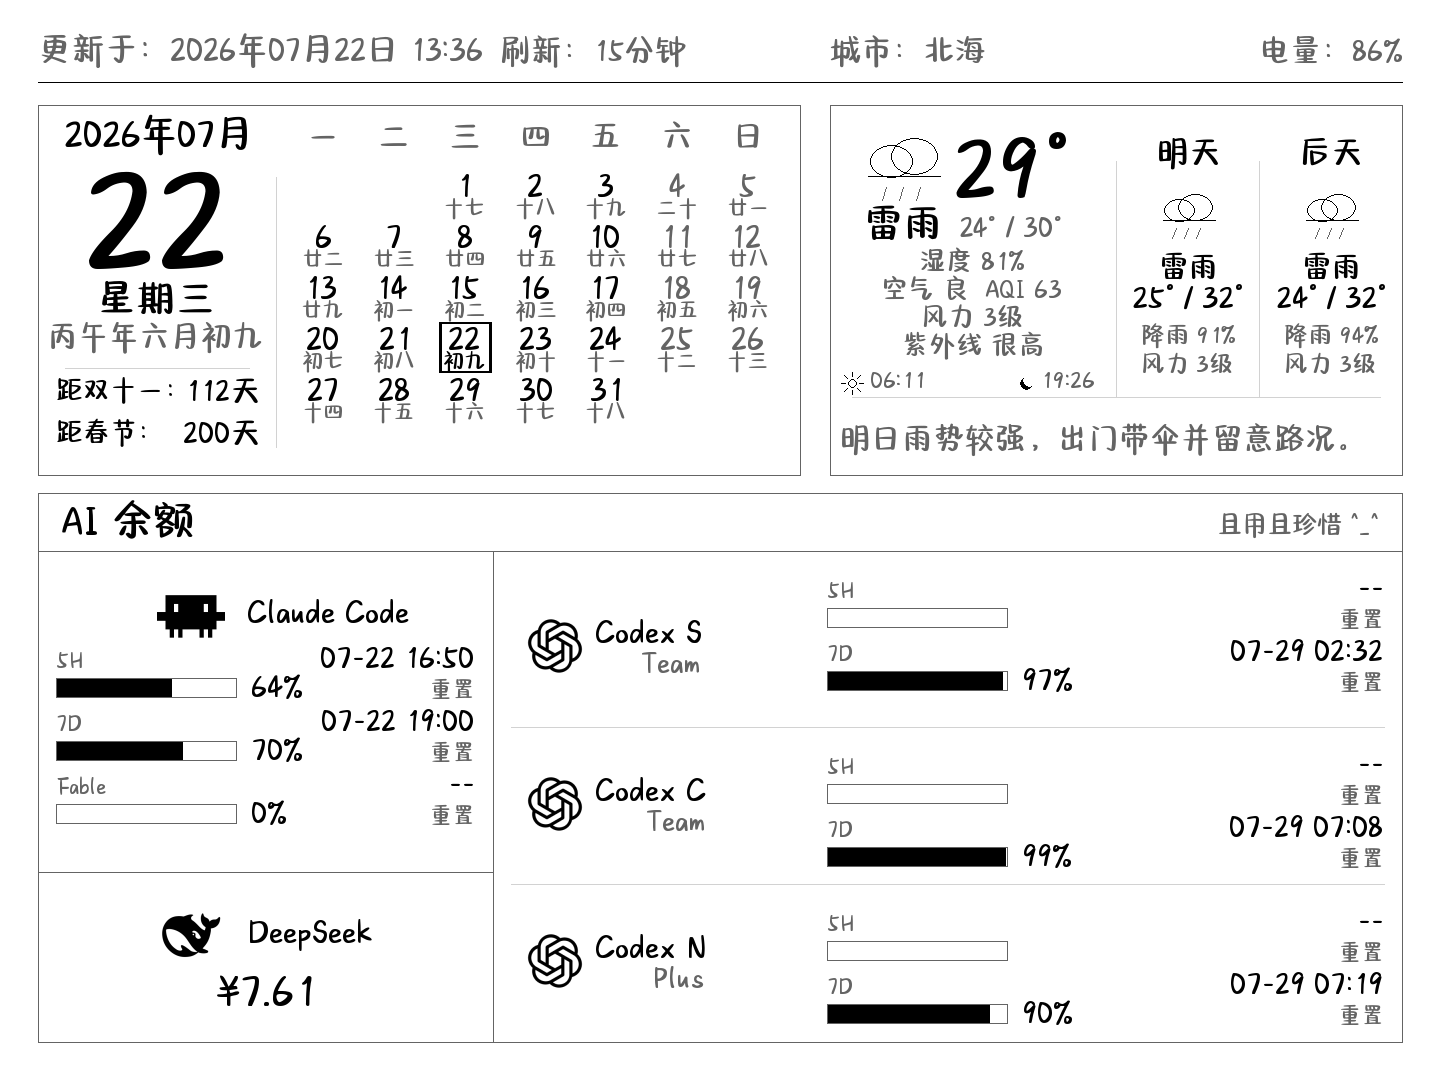
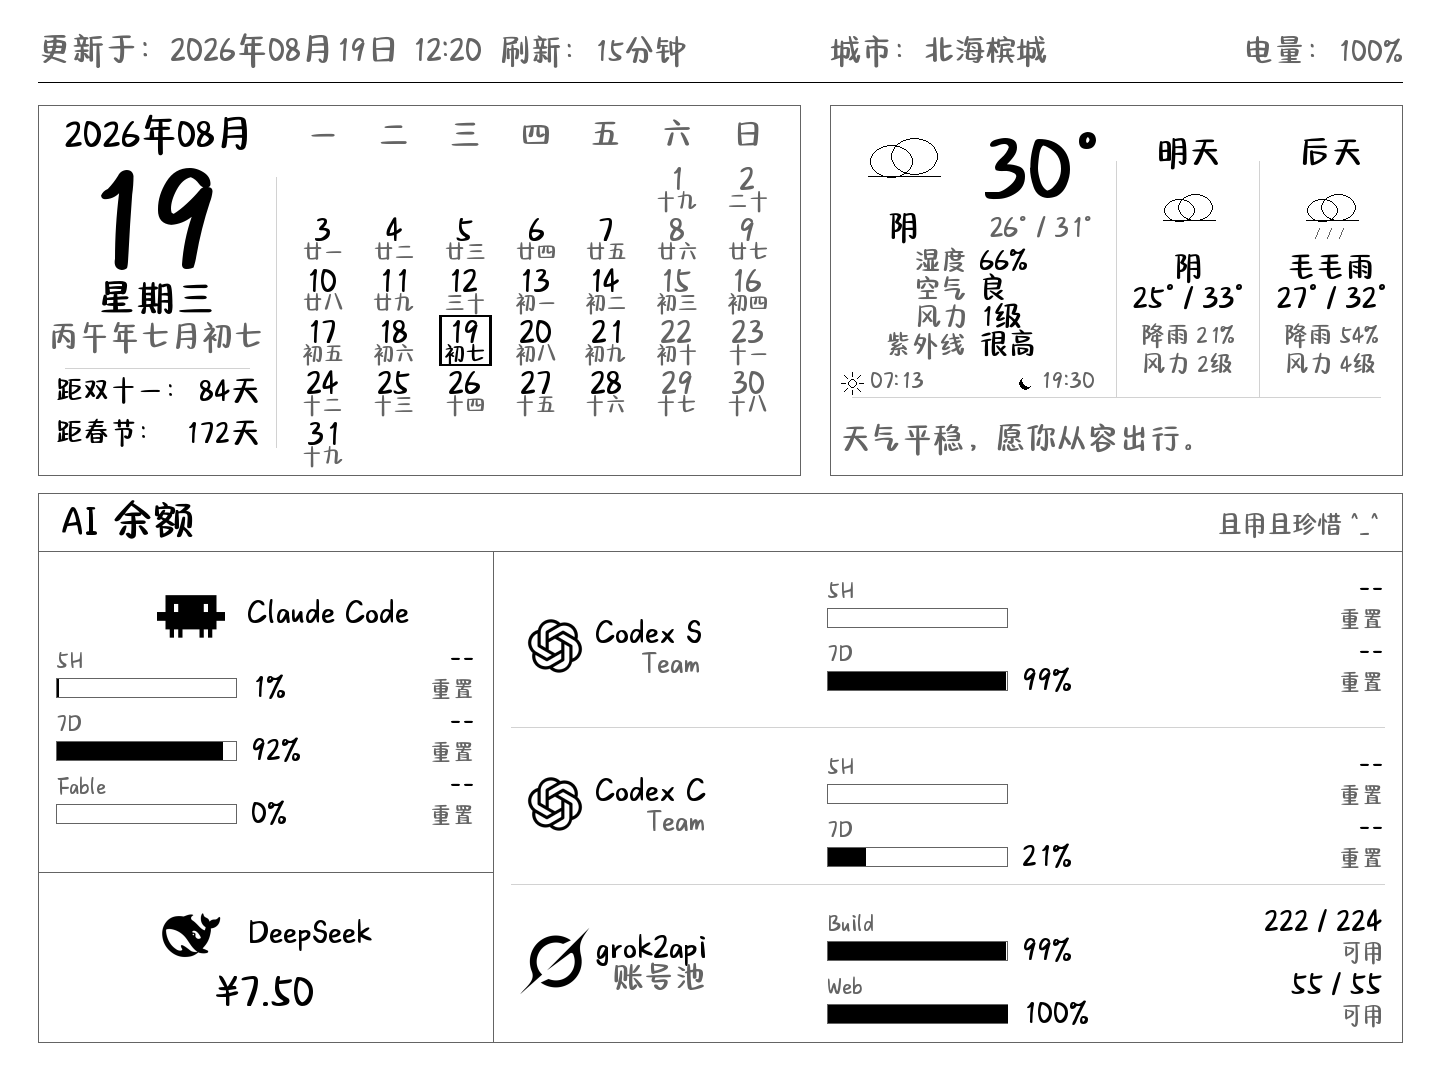
Show grok2api quota across device layouts

diff --git a/scriptable/dashboard-widget.js b/scriptable/dashboard-widget.js
@@ -210,6 +210,12 @@ function accountText(accounts) {
       parts.push("DeepSeek " + value(account.summary, "--").replace(/^Balance\s*/i, ""));
       continue;
     }
+    if (account.source === "grok2api") {
+      const build = account.five_hour || {};
+      const web = account.seven_day || {};
+      parts.push("grok2api Build " + value(build.used, "--") + "% · Web " + value(web.used, "--") + "%");
+      continue;
+    }
     const sevenDay = account.seven_day || {};
     if (sevenDay.used !== null && sevenDay.used !== undefined) parts.push(account.name + " " + sevenDay.used + "%");
   }

diff --git a/php/index.php b/php/index.php
@@ -354,13 +354,15 @@ function weather_advice(array $weather, array $forecast): string {
 function quota_accounts(array $state): array {
     $quota = is_array($state['quota'] ?? null) ? $state['quota'] : [];
     $sources = is_array($quota['sources'] ?? null) ? $quota['sources'] : [];
-    $ordered = array_values(array_unique(array_merge(['claude', 'deepseek', 'codex'], array_keys($sources))));
+    $ordered = array_values(array_unique(array_merge(['claude', 'deepseek', 'codex', 'grok2api'], array_keys($sources))));
     $accounts = [];
+    $codexCount = 0;
     foreach ($ordered as $source) {
         $items = $sources[$source]['accounts'] ?? [];
         if (!is_array($items)) continue;
         foreach ($items as $item) {
             if (is_array($item) && is_string($item['name'] ?? null) && is_string($item['summary'] ?? null)) {
+                if ($source === 'codex' && $codexCount++ >= 2) continue;
                 $item['source'] = $source;
                 $accounts[] = $item;
             }
@@ -381,6 +383,26 @@ function quota_source_account(array $state, string $source): ?array {
         }
     }
     return null;
+}
+
+function grok_quota_account(array $state): array {
+    return quota_source_account($state, 'grok2api') ?? [
+        'name' => 'grok2api', 'summary' => 'Build -- · Web --', 'source' => 'grok2api', 'plan' => '账号池',
+        'five_hour' => ['used' => 0], 'seven_day' => ['used' => 0],
+    ];
+}
+
+function codex_grok_quota_rows(array $state): array {
+    $rows = [];
+    foreach (quota_accounts($state) as $account) {
+        if (($account['source'] ?? '') === 'codex') $rows[] = $account;
+    }
+    $rows[] = grok_quota_account($state);
+    return $rows;
+}
+
+function quota_count_label(?array $metric): string {
+    return isset($metric['available'], $metric['total']) ? $metric['available'] . ' / ' . $metric['total'] : '-- / --';
 }
 
 function draw_text($image, int $size, int $x, int $baseline, string $value, int $colour, string $align = 'left'): void {
@@ -567,11 +589,11 @@ function iphone_weather_emoji($code): string {
     return '☀';
 }
 
-function iphone_metric_html(string $label, ?array $metric, int $maxAheadSeconds): string {
+function iphone_metric_html(string $label, ?array $metric, int $maxAheadSeconds, ?string $detail = null): string {
     $used = is_array($metric) && is_numeric($metric['used'] ?? null) ? max(0, min(100, (int)$metric['used'])) : null;
     $width = $used ?? 0;
     $percentage = $used === null ? '--' : $used . '%';
-    $reset = reset_time_label(is_array($metric) ? ($metric['reset_at'] ?? null) : null, $maxAheadSeconds);
+    $reset = $detail ?? reset_time_label(is_array($metric) ? ($metric['reset_at'] ?? null) : null, $maxAheadSeconds);
     return '<div class="metric-row">'
         . '<span class="metric-label">' . html_escape($label) . '</span>'
         . '<span class="metric-track"><i style="width:' . $width . '%"></i></span>'
@@ -966,6 +988,14 @@ function render_iphone_viewer(array $device, string $id, string $token, array $c
                 . '</article>';
         }
     }
+    $grokAccount = grok_quota_account($state);
+    $grokBuild = account_metric($grokAccount, 'five_hour');
+    $grokWeb = account_metric($grokAccount, 'seven_day');
+    $grokHtml = '<article class="ai-account grok">'
+        . '<div class="account-heading"><img src="/assets/grok.png" alt=""><div><b>grok2api</b><span>账号池</span></div></div>'
+        . iphone_metric_html('Build', $grokBuild, 0, quota_count_label($grokBuild))
+        . iphone_metric_html('Web', $grokWeb, 0, quota_count_label($grokWeb))
+        . '</article>';
     if ($claudeHtml === '') $claudeHtml = '<article class="ai-account claude empty"><b>Claude Code</b><span>暂未接入</span></article>';
     if ($deepseekHtml === '') $deepseekHtml = '<article class="ai-account deepseek empty"><b>DeepSeek</b><span>暂未接入</span></article>';
     if ($codexHtml === '') $codexHtml = '<article class="ai-account codex empty"><b>Codex</b><span>暂未接入</span></article>';
@@ -986,7 +1016,7 @@ CSS;
     echo '<section class="hero"><span class="city">📍 ' . html_escape($city) . '</span><div class="now"><span class="emoji">' . iphone_weather_emoji($weather['code'] ?? null) . '</span><div><strong>' . $temperature . '<small>°C</small></strong><p>' . html_escape(weather_label($weather['code'] ?? null)) . '</p></div></div><div class="range">今日 ' . $low . '° / ' . $high . '°</div><div class="stats"><span>湿度<b>' . html_escape($weather['humidity'] ?? '--') . '%</b></span><span>风力<b>' . html_escape($wind === null ? '--' : $wind) . '级</b></span><span>空气质量<b>' . html_escape(air_quality_label($aqi)) . ' ' . html_escape($aqi ?? '--') . '</b></span><span>紫外线<b>' . html_escape($uvLevel) . '</b></span></div></section>';
     echo '<section class="section"><div class="section-head"><h2>未来天气</h2><span>' . html_escape($city) . '</span></div><div class="forecasts">' . $forecastHtml . '</div><div class="advice"><b>☂</b><span>' . html_escape(weather_advice($weather, $forecast)) . '</span></div></section>';
     echo $serverHtml;
-    echo '<section class="section ai"><div class="section-head ai-title"><h2>AI 余额</h2><span>且用且珍惜 ^_^</span></div>' . $claudeHtml . $deepseekHtml . $codexHtml . '</section>';
+    echo '<section class="section ai"><div class="section-head ai-title"><h2>AI 余额</h2><span>且用且珍惜 ^_^</span></div>' . $claudeHtml . $deepseekHtml . $codexHtml . $grokHtml . '</section>';
     echo '<div class="footer">更新于 ' . html_escape(date('H:i', $now)) . ' · 设备电量 ' . html_escape($batteryText) . '</div></main><script>setInterval(function(){location.reload();},' . ($refreshMinutes * 60000) . ');document.addEventListener("visibilitychange",function(){if(!document.hidden)location.reload();});</script></body></html>';
     exit;
 }
@@ -1106,9 +1136,9 @@ function render_landscape_frame(array $device, array $state, array $config, int 
     imageline($image, $aiRect[0], $aiRect[1] + $p(58), $aiRect[2], $aiRect[1] + $p(58), $grey);
     $divider = $aiRect[0] + $p(455);
     imageline($image, $divider, $aiRect[1] + $p(58), $divider, $aiRect[3], $grey);
-    $leftAccounts = []; $codexAccounts = [];
+    $leftAccounts = [];
     foreach (quota_accounts($state) as $account) {
-        if (($account['source'] ?? '') === 'codex') $codexAccounts[] = $account; else $leftAccounts[] = $account;
+        if (in_array(($account['source'] ?? ''), ['claude', 'deepseek'], true)) $leftAccounts[] = $account;
     }
     $leftAccountCenter = (int)(($aiRect[0] + $divider) / 2);
     $aiContentTop = $aiRect[1] + $p(76); $aiContentBottom = $aiRect[3];
@@ -1145,19 +1175,20 @@ function render_landscape_frame(array $device, array $state, array $config, int 
             draw_text($image, $p(14), $divider - $p(20), $metricBaseline + $p(29), '重置', $grey, 'right');
         }
     }
-    $codexRowHeight = ($aiContentBottom - $aiContentTop) / max(1, count($codexAccounts));
+    $quotaRows = codex_grok_quota_rows($state);
+    $codexRowHeight = ($aiContentBottom - $aiContentTop) / max(1, count($quotaRows));
     $codexShift = $p(34);
-    foreach ($codexAccounts as $index => $account) {
-        $rowCenter = (int)round($aiContentTop + ($index + .5) * $codexRowHeight); $baseline = $rowCenter - $p(5); $source = 'codex';
-        if ($index < count($codexAccounts) - 1) {
+    foreach ($quotaRows as $index => $account) {
+        $rowCenter = (int)round($aiContentTop + ($index + .5) * $codexRowHeight); $baseline = $rowCenter - $p(5);
+        $source = (string)($account['source'] ?? 'codex'); $isGrok = $source === 'grok2api';
+        if ($index < count($quotaRows) - 1) {
             $rowBottom = (int)round($aiContentTop + ($index + 1) * $codexRowHeight);
             imageline($image, $divider + $p(18), $rowBottom, $aiRect[2] - $p(18), $rowBottom, $light);
         }
-        draw_service_icon($image, $source, $divider + $p(28) + $codexShift, $baseline + $p(3), $black, $white);
-        $codexName = (string)$account['name'];
-        if ($codexName === 'Codex 1') $codexName = 'Codex S';
-        elseif ($codexName === 'Codex 2') $codexName = 'Codex C';
-        elseif ($codexName === 'Codex 3') $codexName = 'Codex N';
+        draw_service_icon($image, $isGrok ? 'grok2api' : 'codex', $divider + $p(28) + $codexShift, $baseline + $p(3), $black, $white, $isGrok ? $p(76) - 76 : 0);
+        $codexName = $isGrok ? 'grok2api' : (string)$account['name'];
+        if (!$isGrok && $codexName === 'Codex 1') $codexName = 'Codex S';
+        elseif (!$isGrok && $codexName === 'Codex 2') $codexName = 'Codex C';
         $codexNameX = $divider + $p(68) + $codexShift;
         draw_text($image, $p(21), $codexNameX, $baseline, $codexName, $black);
         $codexNameFontSize = max(1, (int)round($p(21) * (float)($GLOBALS['dashboard_font_scale'] ?? 1)));
@@ -1167,13 +1198,21 @@ function render_landscape_frame(array $device, array $state, array $config, int 
         $fiveHourMetric = account_metric($account, 'five_hour') ?? [];
         $sevenDayMetric = account_metric($account, 'seven_day') ?? [];
         $codexProgressX = $divider + $p(300) + $codexShift;
-        foreach ([['5H', null, $fiveHourMetric, 18300], ['7D', $sevenDayMetric['used'] ?? null, $sevenDayMetric, 605100]] as $metricIndex => [$label, $used, $metric, $maxAheadSeconds]) {
+        $metricRows = $isGrok
+            ? [['Build', $fiveHourMetric['used'] ?? null, $fiveHourMetric, 0], ['Web', $sevenDayMetric['used'] ?? null, $sevenDayMetric, 0]]
+            : [['5H', null, $fiveHourMetric, 18300], ['7D', $sevenDayMetric['used'] ?? null, $sevenDayMetric, 605100]];
+        foreach ($metricRows as $metricIndex => [$label, $used, $metric, $maxAheadSeconds]) {
             $metricBaseline = $rowCenter + $p($metricIndex === 0 ? -50 : 13) + ($index === 0 ? 0 : $p(18));
             draw_text($image, $p(14), $codexProgressX, $metricBaseline, $label, $grey);
             draw_progress($image, $codexProgressX, $metricBaseline + $p(10), $p(180), $p(19), $used, $black, $grey, $white);
-            if ($metricIndex === 1) draw_text($image, $p(19), $codexProgressX + $p(195), $metricBaseline + $p(29), $used === null ? '--' : $used . '%', $black);
-            draw_text($image, $p(19), $aiRect[2] - $p(20), $metricBaseline, reset_time_label($metric['reset_at'] ?? null, $maxAheadSeconds), $black, 'right');
-            draw_text($image, $p(14), $aiRect[2] - $p(20), $metricBaseline + $p(29), '重置', $grey, 'right');
+            if ($isGrok || $metricIndex === 1) draw_text($image, $p(19), $codexProgressX + $p(195), $metricBaseline + $p(29), $used === null ? '--' : $used . '%', $black);
+            if ($isGrok) {
+                draw_text($image, $p(19), $aiRect[2] - $p(20), $metricBaseline, quota_count_label($metric), $black, 'right');
+                draw_text($image, $p(14), $aiRect[2] - $p(20), $metricBaseline + $p(29), '可用', $grey, 'right');
+            } else {
+                draw_text($image, $p(19), $aiRect[2] - $p(20), $metricBaseline, reset_time_label($metric['reset_at'] ?? null, $maxAheadSeconds), $black, 'right');
+                draw_text($image, $p(14), $aiRect[2] - $p(20), $metricBaseline + $p(29), '重置', $grey, 'right');
+            }
         }
     }
     header('Content-Type: image/png'); header('Cache-Control: no-store, max-age=0');
@@ -1289,16 +1328,11 @@ function render_phone_frame(array $device, array $state, array $config, int $wid
         draw_text($image, $f(10), $cellCenter, $forecastTop + $p(185), '风力 ' . ($forecastWindLevel ?? '--') . '级', $grey, 'center');
     }
 
-    $claudeAccount = null; $deepseekAccount = null; $codexAccounts = [];
+    $claudeAccount = null; $deepseekAccount = null;
     foreach (quota_accounts($state) as $account) {
-        if (($account['source'] ?? '') === 'codex') $codexAccounts[] = $account;
-        elseif (($account['source'] ?? '') === 'deepseek') $deepseekAccount = $account;
-        else $claudeAccount = $account;
+        if (($account['source'] ?? '') === 'deepseek') $deepseekAccount = $account;
+        elseif (($account['source'] ?? '') === 'claude') $claudeAccount = $account;
     }
-    $grokAccount = quota_source_account($state, 'grok2api') ?? [
-        'name' => 'grok2api', 'summary' => 'Build -- · Web --', 'source' => 'grok2api', 'plan' => '账号池',
-        'five_hour' => ['used' => 0], 'seven_day' => ['used' => 0],
-    ];
     $serviceX = $serviceRect[0]; $serviceRight = $serviceRect[2]; $serviceCenter = (int)(($serviceX + $serviceRight) / 2); $claudeBaseline = $weatherY + $p(56);
     draw_service_icon($image, 'claude', $serviceCenter - $p(78), $claudeBaseline - $p(7), $black, $white);
     draw_text($image, $f(17), $serviceCenter - $p(25), $claudeBaseline, 'Claude Code', $black);
@@ -1320,7 +1354,7 @@ function render_phone_frame(array $device, array $state, array $config, int $wid
 
     draw_text($image, $f(14), $margin + $p(16), $p(884), weather_advice($weather, $forecast), $grey);
 
-    $quotaRows = array_merge(array_slice($codexAccounts, 0, 2), [$grokAccount]);
+    $quotaRows = codex_grok_quota_rows($state);
     $codexX = $codexRect[0]; $codexY = $codexRect[1]; $codexRight = $codexRect[2]; $codexBottom = $codexRect[3]; $codexRowHeight = ($codexBottom - $codexY) / max(1, count($quotaRows));
     foreach ($quotaRows as $index => $account) {
         $rowTop = (int)round($codexY + $index * $codexRowHeight); $rowCenter = (int)round($rowTop + $codexRowHeight / 2);
@@ -1346,8 +1380,7 @@ function render_phone_frame(array $device, array $state, array $config, int $wid
             draw_progress($image, $progressX, $metricBaseline + $p(10), $p(195), $p(16), $used, $black, $grey, $white);
             if ($isGrok || $metricIndex === 1) draw_text($image, $f(15), $progressX + $p(207), $metricBaseline + $p(30), $used === null ? '--' : $used . '%', $black);
             if ($isGrok) {
-                $count = isset($metric['available'], $metric['total']) ? $metric['available'] . ' / ' . $metric['total'] : '-- / --';
-                draw_text($image, $f(15), $codexRight - $p(12), $metricBaseline, $count, $black, 'right');
+                draw_text($image, $f(15), $codexRight - $p(12), $metricBaseline, quota_count_label($metric), $black, 'right');
                 draw_text($image, $f(11), $codexRight - $p(12), $metricBaseline + $p(30), '可用', $grey, 'right');
             } else {
                 draw_text($image, $f(15), $codexRight - $p(12), $metricBaseline, reset_time_label($metric['reset_at'] ?? null, $maxAheadSeconds), $black, 'right');
@@ -1472,11 +1505,10 @@ function render_portrait_frame(array $device, array $state, array $config, int $
     }
     draw_text($image, $p(15), $weatherX + $p(25), $weatherY + $p(420), weather_advice($weather, $forecast), $grey);
 
-    $claudeAccount = null; $deepseekAccount = null; $codexAccounts = [];
+    $claudeAccount = null; $deepseekAccount = null;
     foreach (quota_accounts($state) as $account) {
-        if (($account['source'] ?? '') === 'codex') $codexAccounts[] = $account;
-        elseif (($account['source'] ?? '') === 'deepseek') $deepseekAccount = $account;
-        else $claudeAccount = $account;
+        if (($account['source'] ?? '') === 'deepseek') $deepseekAccount = $account;
+        elseif (($account['source'] ?? '') === 'claude') $claudeAccount = $account;
     }
     $serviceX = $serviceRect[0]; $serviceRight = $serviceRect[2]; $serviceCenter = (int)(($serviceX + $serviceRight) / 2);
     $metricGroupGap = 65;
@@ -1510,17 +1542,18 @@ function render_portrait_frame(array $device, array $state, array $config, int $
     $balance = preg_replace('/^Balance\\s*/i', '', (string)($deepseekAccount['summary'] ?? '¥0.00'));
     draw_text($image, $p(23), $serviceCenter, $weatherY + $p(415), $balance, $black, 'center');
 
+    $quotaRows = codex_grok_quota_rows($state);
     $codexX = $codexRect[0]; $codexY = $codexRect[1]; $codexRight = $codexRect[2]; $codexBottom = $codexRect[3];
-    $codexRowHeight = ($codexBottom - $codexY) / max(1, count($codexAccounts));
-    foreach ($codexAccounts as $index => $account) {
+    $codexRowHeight = ($codexBottom - $codexY) / max(1, count($quotaRows));
+    foreach ($quotaRows as $index => $account) {
         $rowTop = (int)round($codexY + $index * $codexRowHeight); $rowCenter = (int)round($rowTop + $codexRowHeight / 2);
-        if ($index < count($codexAccounts) - 1) imageline($image, $codexX + $p(18), (int)round($rowTop + $codexRowHeight), $codexRight - $p(18), (int)round($rowTop + $codexRowHeight), $light);
+        if ($index < count($quotaRows) - 1) imageline($image, $codexX + $p(18), (int)round($rowTop + $codexRowHeight), $codexRight - $p(18), (int)round($rowTop + $codexRowHeight), $light);
         $identityBaseline = $rowCenter - $p(8);
-        draw_service_icon($image, 'codex', $codexX + $p(74), $identityBaseline + $p(3), $black, $white, $p(3));
-        $displayName = (string)$account['name'];
-        if ($displayName === 'Codex 1') $displayName = 'Codex S';
-        elseif ($displayName === 'Codex 2') $displayName = 'Codex C';
-        elseif ($displayName === 'Codex 3') $displayName = 'Codex N';
+        $source = (string)($account['source'] ?? 'codex'); $isGrok = $source === 'grok2api';
+        draw_service_icon($image, $isGrok ? 'grok2api' : 'codex', $codexX + $p(74), $identityBaseline + $p(3), $black, $white, $isGrok ? $p(79) - 76 : $p(3));
+        $displayName = $isGrok ? 'grok2api' : (string)$account['name'];
+        if (!$isGrok && $displayName === 'Codex 1') $displayName = 'Codex S';
+        elseif (!$isGrok && $displayName === 'Codex 2') $displayName = 'Codex C';
         $nameX = $codexX + $p(126);
         draw_text($image, $p(20), $nameX, $identityBaseline, $displayName, $black);
         $nameBox = imagettfbbox((int)round($p(20 * $fontScale)), 0, FONT_FILE, $displayName);
@@ -1528,13 +1561,21 @@ function render_portrait_frame(array $device, array $state, array $config, int $
         draw_text($image, $p(17), $nameRight, $identityBaseline + $p(28), (string)($account['plan'] ?? '—'), $grey, 'right');
         $fiveHourMetric = account_metric($account, 'five_hour') ?? []; $sevenDayMetric = account_metric($account, 'seven_day') ?? [];
         $progressX = $codexX + $p(365);
-        foreach ([['5H', null, $fiveHourMetric, 18300], ['7D', $sevenDayMetric['used'] ?? null, $sevenDayMetric, 605100]] as $metricIndex => [$label, $used, $metric, $maxAheadSeconds]) {
+        $metricRows = $isGrok
+            ? [['Build', $fiveHourMetric['used'] ?? null, $fiveHourMetric, 0], ['Web', $sevenDayMetric['used'] ?? null, $sevenDayMetric, 0]]
+            : [['5H', null, $fiveHourMetric, 18300], ['7D', $sevenDayMetric['used'] ?? null, $sevenDayMetric, 605100]];
+        foreach ($metricRows as $metricIndex => [$label, $used, $metric, $maxAheadSeconds]) {
             $metricBaseline = $rowCenter + $p(-41 + $metricIndex * $metricGroupGap);
             draw_text($image, $p(13), $progressX, $metricBaseline, $label, $grey);
             draw_progress($image, $progressX, $metricBaseline + $p(10), $p(260), $p(18), $used, $black, $grey, $white);
-            if ($metricIndex === 1) draw_text($image, $p(18), $progressX + $p(274), $metricBaseline + $p(28), $used === null ? '--' : $used . '%', $black);
-            draw_text($image, $p(18), $codexRight - $p(18), $metricBaseline, reset_time_label($metric['reset_at'] ?? null, $maxAheadSeconds), $black, 'right');
-            draw_text($image, $p(13), $codexRight - $p(18), $metricBaseline + $p(28), '重置', $grey, 'right');
+            if ($isGrok || $metricIndex === 1) draw_text($image, $p(18), $progressX + $p(274), $metricBaseline + $p(28), $used === null ? '--' : $used . '%', $black);
+            if ($isGrok) {
+                draw_text($image, $p(18), $codexRight - $p(18), $metricBaseline, quota_count_label($metric), $black, 'right');
+                draw_text($image, $p(13), $codexRight - $p(18), $metricBaseline + $p(28), '可用', $grey, 'right');
+            } else {
+                draw_text($image, $p(18), $codexRight - $p(18), $metricBaseline, reset_time_label($metric['reset_at'] ?? null, $maxAheadSeconds), $black, 'right');
+                draw_text($image, $p(13), $codexRight - $p(18), $metricBaseline + $p(28), '重置', $grey, 'right');
+            }
         }
     }
     render_grayscale_png($image);

diff --git a/tests/test_app.py b/tests/test_app.py
@@ -6,7 +6,7 @@ from zoneinfo import ZoneInfo
 
 from PIL import Image
 
-from server.app import Config, Device, create_app, render_dashboard
+from server.app import Config, Device, _quota_accounts, create_app, render_dashboard
 
 
 def config(tmp_path: Path) -> Config:
@@ -52,6 +52,21 @@ def test_frame_renders_multiple_quota_accounts():
     png = render_dashboard(device, state, datetime(2026, 7, 16, tzinfo=ZoneInfo("Asia/Shanghai")))
     image = Image.open(io.BytesIO(png))
     assert image.size == (1072, 1448)
+
+
+def test_grok_pool_replaces_third_codex_account():
+    accounts = _quota_accounts({"sources": {
+        "codex": {"accounts": [
+            {"name": "Codex 1", "summary": "周 10%"},
+            {"name": "Codex 2", "summary": "周 20%"},
+            {"name": "Codex 3", "summary": "周 30%"},
+        ]},
+        "claude": {"accounts": [{"name": "Claude", "summary": "周 40%"}]},
+        "deepseek": {"accounts": [{"name": "DeepSeek", "summary": "¥7.50"}]},
+        "grok2api": {"accounts": [{"name": "grok2api", "summary": "Build 222/224 · Web 55/55"}]},
+    }})
+
+    assert [account["name"] for account in accounts] == ["Claude", "DeepSeek", "Codex 1", "Codex 2", "grok2api"]
 
 
 def test_collectors_keep_each_others_quota_accounts(tmp_path):

diff --git a/server/app.py b/server/app.py
@@ -193,8 +193,9 @@ def _quota_accounts(quota: dict[str, Any]) -> list[dict[str, str]]:
         return accounts if isinstance(accounts, list) else []
 
     flattened: list[dict[str, str]] = []
-    ordered_sources = [name for name in ("codex", "claude", "deepseek") if name in sources]
+    ordered_sources = [name for name in ("claude", "deepseek", "codex", "grok2api") if name in sources]
     ordered_sources.extend(name for name in sources if name not in ordered_sources)
+    codex_count = 0
     for source in ordered_sources:
         entry = sources.get(source)
         accounts = entry.get("accounts") if isinstance(entry, dict) else None
@@ -202,8 +203,12 @@ def _quota_accounts(quota: dict[str, Any]) -> list[dict[str, str]]:
             continue
         for account in accounts:
             if isinstance(account, dict):
+                if source == "codex":
+                    codex_count += 1
+                    if codex_count > 2:
+                        continue
                 flattened.append(account)
-    return flattened
+    return flattened[:5]
 
 
 def _calendar(draw: ImageDraw.ImageDraw, box: tuple[int, int, int, int], now: datetime, scale: float) -> None:

diff --git a/README.md b/README.md
@@ -8,13 +8,14 @@ A self-hosted dashboard for Kindle and Android e-ink devices. It renders low-fre
 - Open-Meteo weather, air quality, UV index, sunrise, sunset, and forecasts.
 - Token-protected frame, viewer, widget, and quota-ingest endpoints.
 - Optional collectors for Claude Code, Codex via Cockpit Tools, the official DeepSeek balance API, grok2api Build/Web pool availability, and local or remote Linux server status.
+- Consistent quota cards across native and responsive layouts: two Codex accounts plus grok2api Build/Web pool availability.
 - Android 4.2+ client with orientation-specific offline caches.
 - Kindle KUAL extension with timed Wi-Fi wake, download, display, and suspend.
 - Scriptable widgets and a responsive calendar/weather page.
 
 ## Screenshots
 
-Current production frames captured on 2026-07-22.
+Representative PHP frames rendered with fixture data on 2026-08-19.
 
 ### KO1 / Android 4.2 (landscape)
 
